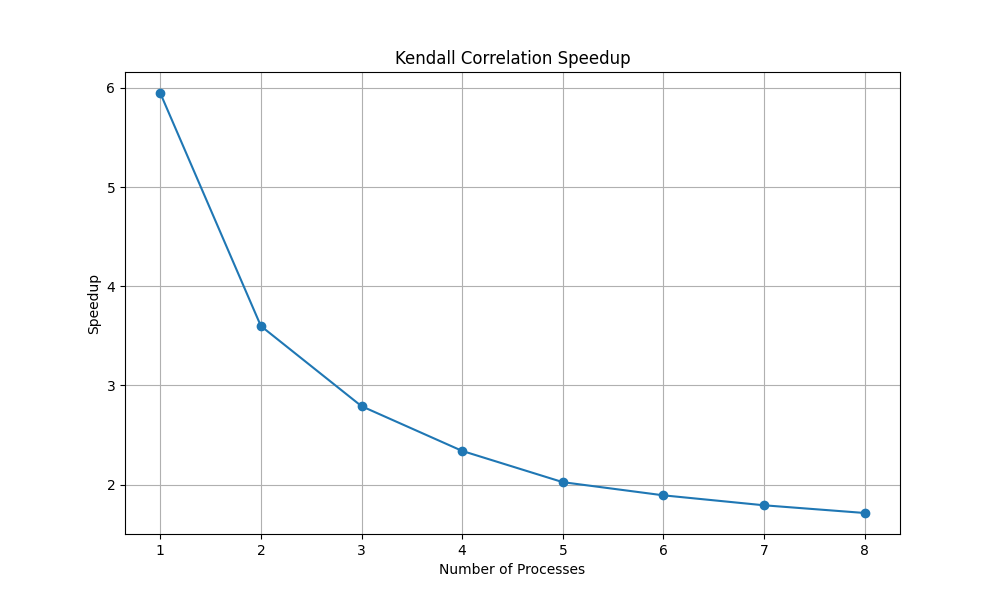
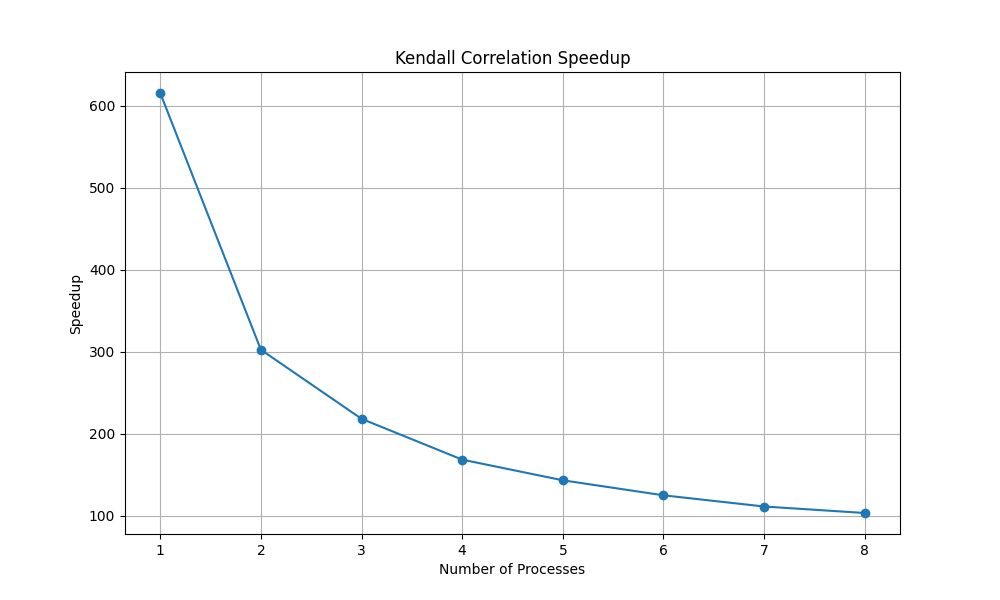
kendall correlation

diff --git a/kendall.py b/kendall.py
@@ -123,4 +123,4 @@ def plot_diff(size: int) -> None:
 
 if __name__ == '__main__':
     freeze_support()
-    plot_diff(size=10000)
+    plot_diff(size=100000)
